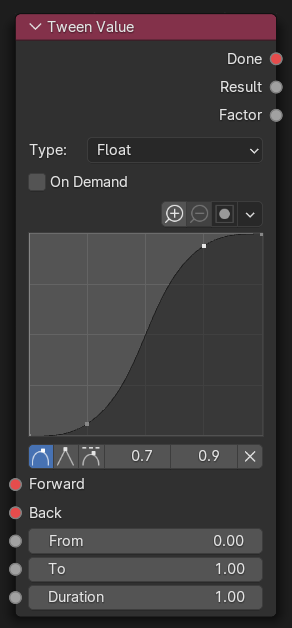
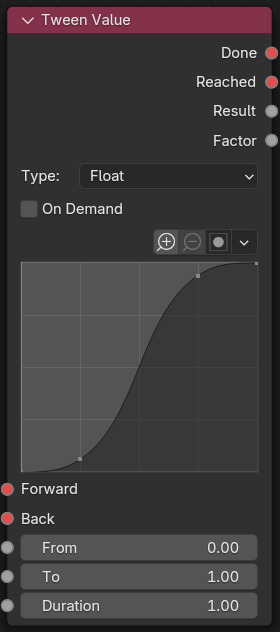
add path & fmod nodes

Changed region(s): [[0.0, 0.0, 1.0, 0.9984], [0.8571, 0.3631, 0.9143, 0.3933]]

diff --git a/source/manual/logic_nodes/sound/fmod/start_event.rst b/source/manual/logic_nodes/sound/fmod/start_event.rst
@@ -1,0 +1,45 @@
+.. figure:: /images/logic_nodes/sound/fmod/ln-start_event.png
+   :align: right
+   :width: 215
+   :alt: Start Event Node
+
+.. _ln-start_event:
+
+==============================
+Start Event
+==============================
+
+Start an event by name.
+
+Parameters
+++++++++++++++++++++++++++++++
+
+Speaker Mode
+   If active, an object reference will be used for the position and orientation of this sound.
+
+Inputs
+++++++++++++++++++++++++++++++
+
+Condition
+   If connected, condition must be fulfilled for node to activate.
+
+Event
+   Name of the event. Event names are defined within the FMod application.
+
+Position
+   World position of this event.
+
+Speaker
+   Reference object for position and orientation.
+
+Channel
+   Channel for grouping events together.
+
+Outputs
+++++++++++++++++++++++++++++++
+
+Done
+   *True* if node performed successfully, else *False*.
+
+Event
+   The `Event` or `EventSpeaker` python object.

diff --git a/source/manual/logic_nodes/math/tween_value.rst b/source/manual/logic_nodes/math/tween_value.rst
@@ -31,25 +31,25 @@ Type
    A value type to process.
 
 On Demand
-   todo
+   Automatically move right on the curve if the "Result" socket is being accessed.
 
 Inputs
 ++++++++++++++++++++++++++++++
 
 Forward
-   todo
+   Move right on the curve.
 
 Back
-   todo
+   Move left on the curve.
 
 From
-   Starting tween value. todo
+   Starting tween value.
 
 To
-   Ending tween value. todo
+   Ending tween value.
 
 Duration
-   Duration of tween. todo
+   Duration of Tweening.
 
 Outputs
 ++++++++++++++++++++++++++++++
@@ -57,8 +57,11 @@ Outputs
 Done
    *True* if node performed successfully, else *False*.
 
+Reached
+   *True* if the factor is either 0 or 1, else *False*.
+
 Result
-   Resulting tween value. todo
+   Resulting tween value.
 
 Factor
-   todo
+   Current X-Axis position.

diff --git a/source/manual/logic_nodes/sound/fmod/load_bank.rst b/source/manual/logic_nodes/sound/fmod/load_bank.rst
@@ -1,0 +1,27 @@
+.. figure:: /images/logic_nodes/sound/fmod/ln-load_bank.png
+   :align: right
+   :width: 215
+   :alt: Load Bank Node
+
+.. _ln-load_bank:
+
+==============================
+Load Bank
+==============================
+
+Load a `.bank` file from the system for later use.
+
+Inputs
+++++++++++++++++++++++++++++++
+
+Condition
+   If connected, condition must be fulfilled for node to activate.
+
+Path
+   Path to the `.bank` file. `.bank` files are build with the FMod application.
+
+Outputs
+++++++++++++++++++++++++++++++
+
+Done
+   *True* if node performed successfully, else *False*.

diff --git a/source/manual/logic_nodes/data/path/join_path.rst b/source/manual/logic_nodes/data/path/join_path.rst
@@ -1,0 +1,32 @@
+.. figure:: /images/logic_nodes/data/path/ln-join_path.png
+   :align: right
+   :width: 215
+   :alt: Join Path Node
+
+.. _ln-join_path:
+==============================
+Join Path
+==============================
+
+Join multiple components of a path regardless of operating system.
+
+Parameters
+++++++++++++++++++++++++++++++
+
+Add Socket
+   Will add another socket for additional items.
+
+Inputs
+++++++++++++++++++++++++++++++
+
+Path
+   Path Component.
+
+Path
+   Path Component.
+
+Outputs
+++++++++++++++++++++++++++++++
+
+Path
+   Full path to the directory.

diff --git a/source/manual/logic_nodes/data/path/get_master_folder.rst b/source/manual/logic_nodes/data/path/get_master_folder.rst
@@ -1,0 +1,24 @@
+.. figure:: /images/logic_nodes/data/path/ln-get_master_folder.png
+   :align: right
+   :width: 215
+   :alt: Get Master Folder Node
+
+.. _ln-get_master_folder:
+
+==============================
+Get Master Folder
+==============================
+
+Go up in directories until the directory name matches the given string.
+
+Inputs
+++++++++++++++++++++++++++++++
+
+Name
+   Name of the folder to look for.
+
+Outputs
+++++++++++++++++++++++++++++++
+
+Path
+   Full path to the directory. If no directory is found, an empty string is returned.

diff --git a/source/manual/logic_nodes/data/path/index.rst b/source/manual/logic_nodes/data/path/index.rst
@@ -1,0 +1,11 @@
+.. _ln-data-path-index:
+
+==============================
+Path
+==============================
+  
+.. toctree::
+   :maxdepth: 1
+   
+   get_master_folder
+   join_path

diff --git a/source/manual/logic_nodes/sound/fmod/index.rst b/source/manual/logic_nodes/sound/fmod/index.rst
@@ -1,0 +1,11 @@
+.. _ln-sound-fmod:
+
+==============================
+FMod
+==============================
+
+.. toctree::
+   :maxdepth: 1
+
+   load_bank
+   start_event

diff --git a/source/manual/logic_nodes/objects/transformation/move_to.rst b/source/manual/logic_nodes/objects/transformation/move_to.rst
@@ -37,3 +37,6 @@ Output
 
 Done
    *True* if the node performed successfully, else *False*.
+
+Reached
+   *True* if the object is within stopping distance, else *False*.

diff --git a/source/manual/logic_nodes/data/index.rst b/source/manual/logic_nodes/data/index.rst
@@ -12,3 +12,4 @@ Data
    variables/index
    load_scene
    load_file_content
+   path/index

diff --git a/source/manual/logic_nodes/sound/index.rst b/source/manual/logic_nodes/sound/index.rst
@@ -13,3 +13,5 @@ Sound
    resume_sound
    stop_sound
    stop_all_sounds
+
+   fmod/index
